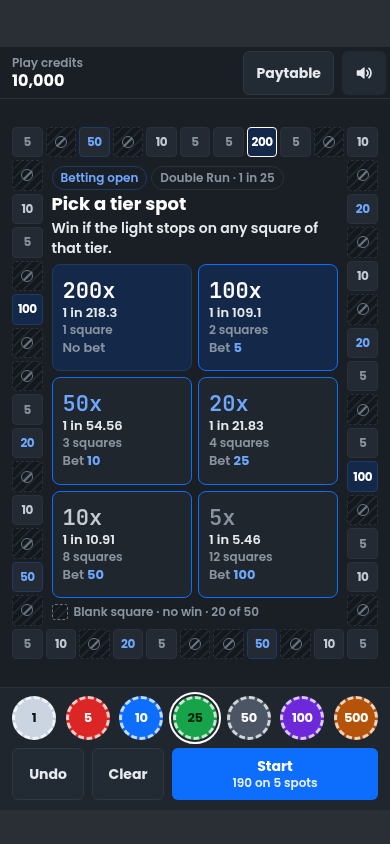
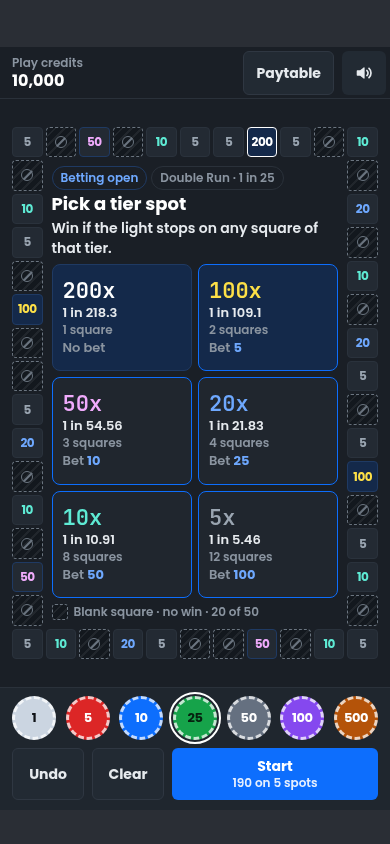
v5 batch 7: mock.css uses the real tier and chip tokens; re-render the tier mock PNGs
The mocks still pointed at the removed v3 tier tokens and a local violet chip. The 360x640 spots show the square count, and the paytable copy matches the 150,000 gamble limit. SPEC.md is brought up to date.

diff --git a/docs/design-v5/tiers/mock.css b/docs/design-v5/tiers/mock.css
@@ -15,12 +15,10 @@
   --sal: max(env(safe-area-inset-left, 0px), var(--sim-sal, 0px));
   --tap: 44px; --fs-min: 12px; --fs-body: 14px;
   --gap: 3px; --pmax: 70px;
-  /* v5 tier inks (v3 tier colours re-mapped onto six tiers) */
-  --k5: var(--c-tier-24); --k10: var(--c-tier-96); --k20: var(--c-accent-blue-text); --k50: var(--c-accent-blue-text);
-  --k100: var(--c-tier-1920); --k200: var(--c-tier-1920);
-  /* v5 proposed chip fills for the two new chips (not in v3 tokens yet, see SPEC open questions) */
-  --c-chip-100: #6d28d9; --c-chip-500: #b45309;
-  --hatch: repeating-linear-gradient(135deg, transparent 0 5px, rgba(255,255,255,.06) 5px 7px);
+  /* every tier has its own token */
+  --k5: var(--c-tier-5); --k10: var(--c-tier-10); --k20: var(--c-tier-20); --k50: var(--c-tier-50);
+  --k100: var(--c-tier-100); --k200: var(--c-tier-200);
+  --hatch: repeating-linear-gradient(135deg, transparent 0 5px, var(--c-tile-blank-hatch) 5px 7px);
 }
 
 * { box-sizing: border-box; margin: 0; padding: 0; }
@@ -75,11 +73,11 @@ html[data-sim] body::before { content: ''; position: fixed; inset: 0; z-index: 1
 .t5 .m { color: var(--k5); } .t10 .m { color: var(--k10); } .t20 .m { color: var(--k20); } .t50 .m { color: var(--k50); }
 .tile.t50 { border-color: var(--c-border-panel-navy); }
 .tile.t100 { background: var(--c-tile-jackpot); border-color: var(--c-border-panel-navy); } .t100 .m { color: var(--k100); }
-.tile.t200 { background: var(--c-tile-jackpot); border-color: var(--c-tier-1920); } .t200 .m { color: var(--k200); }
+.tile.t200 { background: var(--c-tile-jackpot); border-color: var(--c-tier-200); } .t200 .m { color: var(--k200); }
 /* blank: darker, hatched, dashed edge and a "no" glyph. Never mistaken for a paying square. */
-.tile.blank { background: var(--c-bg-segment) var(--hatch); border: 1px dashed var(--c-divider); }
-.no { display: block; width: 12px; height: 12px; border: 1.5px solid var(--c-text-dim); border-radius: 50%; position: relative; }
-.no::after { content: ''; position: absolute; left: 50%; top: -1px; bottom: -1px; width: 1.5px; margin-left: -.75px; background: var(--c-text-dim); transform: rotate(45deg); }
+.tile.blank { background: var(--c-tile-blank) var(--hatch); border: 1px dashed var(--c-tile-blank-edge); }
+.no { display: block; width: 12px; height: 12px; border: 1.5px solid var(--c-tile-blank-edge); border-radius: 50%; position: relative; }
+.no::after { content: ''; position: absolute; left: 50%; top: -1px; bottom: -1px; width: 1.5px; margin-left: -.75px; background: var(--c-tile-blank-edge); transform: rotate(45deg); }
 /* result states */
 .tile.lit { background: var(--c-tile-lit); border: 1px solid var(--c-tile-lit); }
 .tile.lit .m { color: var(--c-text-on-light); } .tile.lit .no, .tile.lit .no::after { border-color: var(--c-text-on-light); }
@@ -100,13 +98,13 @@ html[data-sim] body::before { content: ''; position: fixed; inset: 0; z-index: 1
 .ctitle { font-size: var(--fs-title); line-height: 24px; font-weight: 700; color: var(--c-text-strong); }
 .csub { font-size: var(--fs-body); line-height: 18px; color: var(--c-text-muted); }
 .legend { flex: none; display: flex; align-items: center; gap: 6px; font-size: var(--fs-label-sm); line-height: 16px; color: var(--c-text-muted); white-space: nowrap; }
-.sw { display: inline-block; flex: none; width: 16px; height: 16px; border-radius: 3px; border: 1px dashed var(--c-text-dim); background: var(--c-bg-segment) var(--hatch); }
+.sw { display: inline-block; flex: none; width: 16px; height: 16px; border-radius: 3px; border: 1px dashed var(--c-tile-blank-edge); background: var(--c-tile-blank) var(--hatch); }
 
 .spots { flex: 1; min-height: 0; display: grid; grid-template-columns: repeat(2, minmax(0, 1fr)); grid-auto-rows: minmax(0, 1fr); gap: 6px; }
 .spot { position: relative; min-width: 0; min-height: var(--tap); display: flex; flex-direction: column; justify-content: center; gap: 1px; padding: 6px 10px; border-radius: var(--r-card); background: var(--c-bg-card); border: 1px solid var(--c-border-input); overflow: hidden; }
 .spot.t100, .spot.t200 { background: var(--c-bg-panel-navy); border-color: var(--c-border-panel-navy); }
 .spot .sm { font-family: var(--f-mono); font-size: 22px; line-height: 26px; font-weight: 600; }
-.spot.t5 .sm { color: var(--k5); } .spot.t10 .sm { color: var(--k10); } .spot.t20 .sm, .spot.t50 .sm { color: var(--k20); } .spot.t100 .sm, .spot.t200 .sm { color: var(--k200); }
+.spot.t5 .sm { color: var(--k5); } .spot.t10 .sm { color: var(--k10); } .spot.t20 .sm { color: var(--k20); } .spot.t50 .sm { color: var(--k50); } .spot.t100 .sm { color: var(--k100); } .spot.t200 .sm { color: var(--k200); }
 .spot .so { font-size: 13px; line-height: 16px; color: var(--c-text-primary); }
 .spot .sq { font-size: var(--fs-label-sm); line-height: 16px; color: var(--c-text-muted); }
 .spot .sb { font-size: 13px; line-height: 18px; color: var(--c-text-muted); }
@@ -114,7 +112,8 @@ html[data-sim] body::before { content: ''; position: fixed; inset: 0; z-index: 1
 .spot.has .sb b { color: var(--c-accent-blue-text); }
 .spot.won { background: var(--c-accent-green); border-color: var(--c-accent-green-text); }
 .spot.won :is(.sm, .so, .sq, .sb), .spot.won .sb b { color: var(--c-text-on-green); }
-.spot.lost { opacity: .85; border-color: var(--c-accent-blue-text); }
+.spot.lost { opacity: var(--o-spot-lost); border-color: var(--c-accent-blue-text); }
+.spot.lost :is(.sq, .sb) { color: var(--c-text-primary); }
 .spot[aria-disabled="true"] { cursor: default; }
 
 /* ================================================================ dock (phone: bottom) */
@@ -147,11 +146,11 @@ html[data-sim] body::before { content: ''; position: fixed; inset: 0; z-index: 1
 .pcards { display: flex; flex-direction: column; gap: 6px; }
 .pc { display: grid; grid-template-columns: 64px minmax(0, 1fr); grid-template-areas: "m o" "m n"; column-gap: 12px; padding: 8px 12px; border-radius: var(--r-card); background: var(--c-bg-card); border: 1px solid var(--c-border-input); }
 .pc.t100, .pc.t200 { background: var(--c-bg-panel-navy); border-color: var(--c-border-panel-navy); }
-.pc.blank { background: var(--c-bg-segment) var(--hatch); border-style: dashed; }
+.pc.blank { background: var(--c-tile-blank) var(--hatch); border-style: dashed; border-color: var(--c-tile-blank-edge); }
 .pc.tot { background: none; }
 .pm { grid-area: m; align-self: center; display: flex; align-items: center; gap: 6px; font-family: var(--f-mono); font-size: 20px; line-height: 24px; }
 .pc.blank .pm, .pc.tot .pm, .ptab .blank .pm { font-family: var(--f-sans); font-size: 14px; }
-.t5 .pm { color: var(--k5); } .t10 .pm { color: var(--k10); } .t20 .pm, .t50 .pm { color: var(--k20); } .t100 .pm, .t200 .pm { color: var(--k200); }
+.t5 .pm { color: var(--k5); } .t10 .pm { color: var(--k10); } .t20 .pm { color: var(--k20); } .t50 .pm { color: var(--k50); } .t100 .pm { color: var(--k100); } .t200 .pm { color: var(--k200); }
 .po { grid-area: o; display: flex; justify-content: space-between; gap: 8px; font-size: 14px; line-height: 20px; }
 .po span { color: var(--c-text-muted); font-size: 13px; }
 .pn { grid-area: n; font-size: var(--fs-label-sm); line-height: 16px; color: var(--c-text-muted); }
@@ -161,7 +160,7 @@ html[data-sim] body::before { content: ''; position: fixed; inset: 0; z-index: 1
 @media (max-width: 1199px) and (max-height: 700px) {
   .ring { --C: 12; --R: 15; }
   .tile { grid-area: var(--g12); }
-  .csub, .spot .sq { display: none; }
+  .csub { display: none; }
   .spot { padding: 4px 8px; }
   .spot .sm { font-size: 20px; line-height: 24px; }
 }
@@ -218,7 +217,7 @@ html[data-sim] body::before { content: ''; position: fixed; inset: 0; z-index: 1
   .ptab thead th { font-size: var(--fs-label-sm); color: var(--c-text-muted); font-weight: 600; }
   .ptab td.nums { color: var(--c-text-muted); }
   .ptab tbody tr.t100, .ptab tbody tr.t200 { background: var(--c-bg-panel-navy); }
-  .ptab tr.blank { background: var(--c-bg-segment) var(--hatch); }
+  .ptab tr.blank { background: var(--c-tile-blank) var(--hatch); }
   .ptab tfoot th, .ptab tfoot td { font-weight: 700; color: var(--c-text-strong); border-bottom: 0; }
   .lims { display: grid; grid-template-columns: 1fr 1fr; column-gap: 32px; }
 }

diff --git a/docs/design-v5/tiers/mocks/paytable.html b/docs/design-v5/tiers/mocks/paytable.html
@@ -39,7 +39,7 @@
       <h3>Double Run</h3>
       <p class="body">About 1 in 25 rounds, a second light runs and stops on a different square. Each light pays on its own, so both lights on your tier pay twice.</p>
       <h3>Limits</h3>
-      <ul class="lims body"><li>Up to 1,000 on each tier spot and 1,000 per round</li><li>Chips 1, 5, 10, 25, 50, 100, 500</li><li>Start with 10,000 play credits; free refill to 10,000</li><li>Gamble is off above 300,000</li><li>Simulated credits only, no real money</li></ul>
+      <ul class="lims body"><li>Up to 1,000 on each tier spot and 1,000 per round</li><li>Chips 1, 5, 10, 25, 50, 100, 500</li><li>Start with 10,000 play credits; free refill to 10,000</li><li>Gamble on wins up to 150,000, 3 times per win, 300,000 cap</li><li>Simulated credits only, no real money</li></ul>
     </div>
   </section>
 </body>

diff --git a/docs/design-v5/tiers/SPEC.md b/docs/design-v5/tiers/SPEC.md
@@ -1,6 +1,6 @@
 # Running Light v5 · tier betting layout spec
 
-Status: design only. Nothing in `src/` has changed. Rules come from `math-v5/MATH-SPEC-C.md` (approved). The mocks in
+Status: approved and implemented (v5 batches 4–7). Rules come from `math-v5/MATH-SPEC-C.md` (approved). The mocks in
 `mocks/` are the reference and `png/` holds their renders. `render.mjs` re-renders them and checks the numeric rules
 below; results are in `measurements.json`.
 
@@ -40,9 +40,9 @@ never be doubled past the 300,000 cap.
 4. **Blank squares are marked as no-win in three ways, not by colour alone:** a darker fill with diagonal hatching,
    a dashed border, and a ⊘ glyph. On desktop the square also reads "No win". A legend under the spots reads
    "Blank square · no win · 20 of 50".
-5. **Tier inks reuse v3 colours.** 5x is grey and 10x light grey. 20x and 50x are blue; 50x also has a navy border.
-   100x is white on navy, and 200x is white on navy with a white border. Because the label text always names the
-   tier, colour is never the only cue.
+5. **Every tier has its own token** (`--c-tier-5` … `--c-tier-200`): grey, teal, blue, pink, yellow and white. 50x also has
+   a navy border, 100x sits on navy, and 200x sits on navy with a white border. Because the label text always names
+   the tier, colour is never the only cue.
 6. **Results:**
    - A lit square that pays is solid green.
    - A lit blank square is white, the v3 lit colour.
@@ -61,8 +61,8 @@ never be doubled past the 300,000 cap.
 9. **Ring shapes:** desktop uses 16 × 11 with an 80 px max pitch (74 px squares at 1920 × 1080). Phones use 11 × 16
    (30.5 px squares at 390 × 844), or 12 × 15 when the height is ≤ 700 px (25 px squares at 360 × 640). Phone
    squares drop the "x" and the square number so that "200" fits in 12 px text.
-10. **Two new chips (100 and 500)** need fills. The mocks use violet `#6d28d9` and amber `#b45309`, defined in
-    `mock.css`; they are not in the tokens yet.
+10. **Two new chips (100 and 500)** use the `--c-chip-100` (violet `#8548ef`, moved from the proposed `#6d28d9` by the
+    contrast check) and `--c-chip-500` (amber `#b45309`) tokens.
 
 ## 3. Checks (`render.mjs` → `measurements.json`)
 
@@ -93,9 +93,8 @@ Last run: all 11 pages pass. The smallest tap target is 44 px, the smallest text
    paytable show two decimals per tier?
 3. **Unequal squares.** A blank square is about 7× as likely as the 200x square. The paytable says so in plain words.
    Should the board also hint at it, for example with a stop-share bar on each spot?
-4. **Tier colours.** 20x and 50x share the blue ink (only the border differs), and so do 100x and 200x (white on
-   navy). Should v5 add tier tokens so each tier has its own hue?
-5. **Chip fills for 100 and 500.** Violet and amber are proposals. They need contrast checks and token entries.
+4. **Tier colours.** Resolved in batch 4: each tier has its own token.
+5. **Chip fills for 100 and 500.** Resolved in batch 4: tokens, contrast-checked.
 6. **Rebet.** The mocks drop Rebet on both layouts, because bets are kept after a round and Start again replays
    them. Should it come back as a button after Clear?
 7. **Gamble details.** MATH-SPEC-C only says "as B §7" (cap 300,000). The number of gambles per win and the flip
